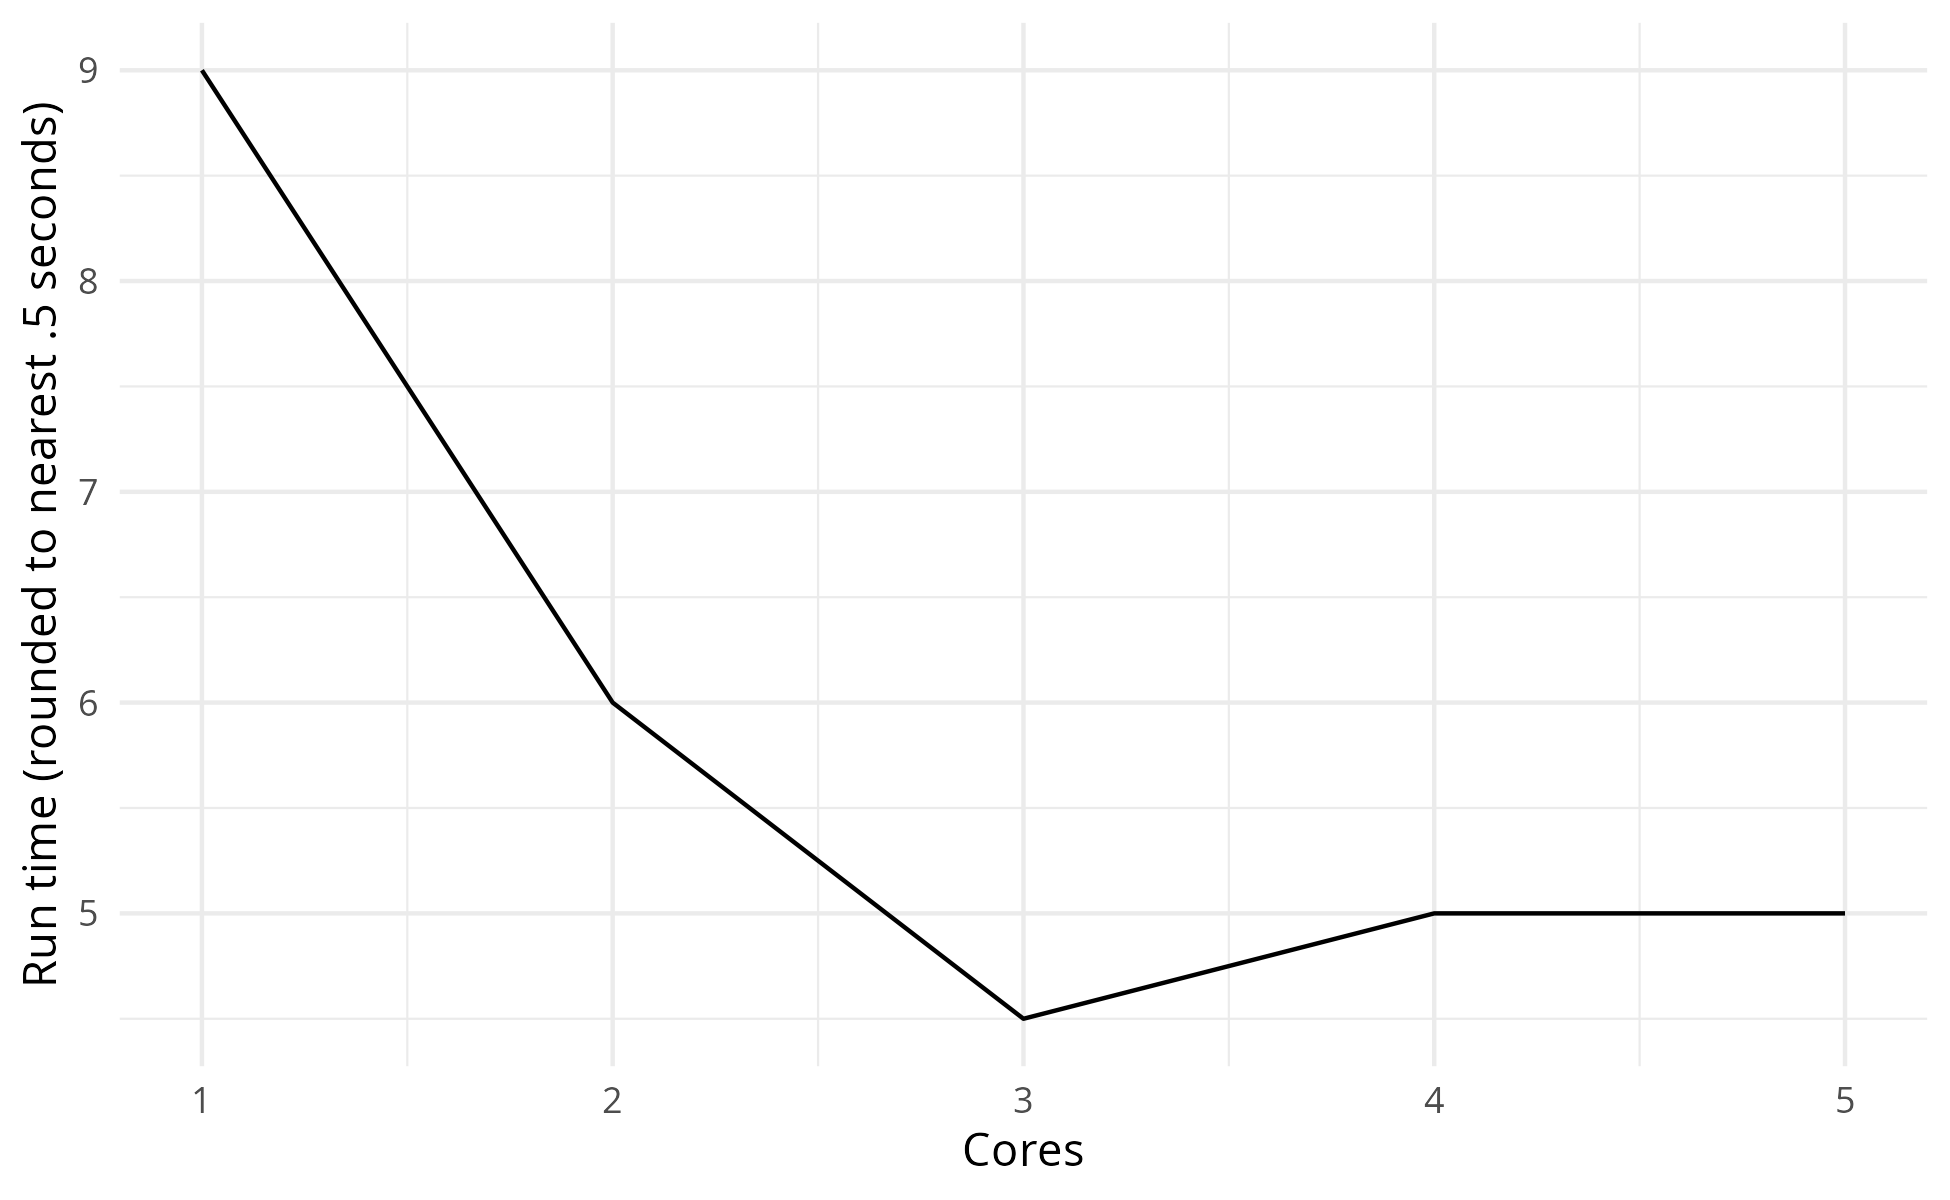
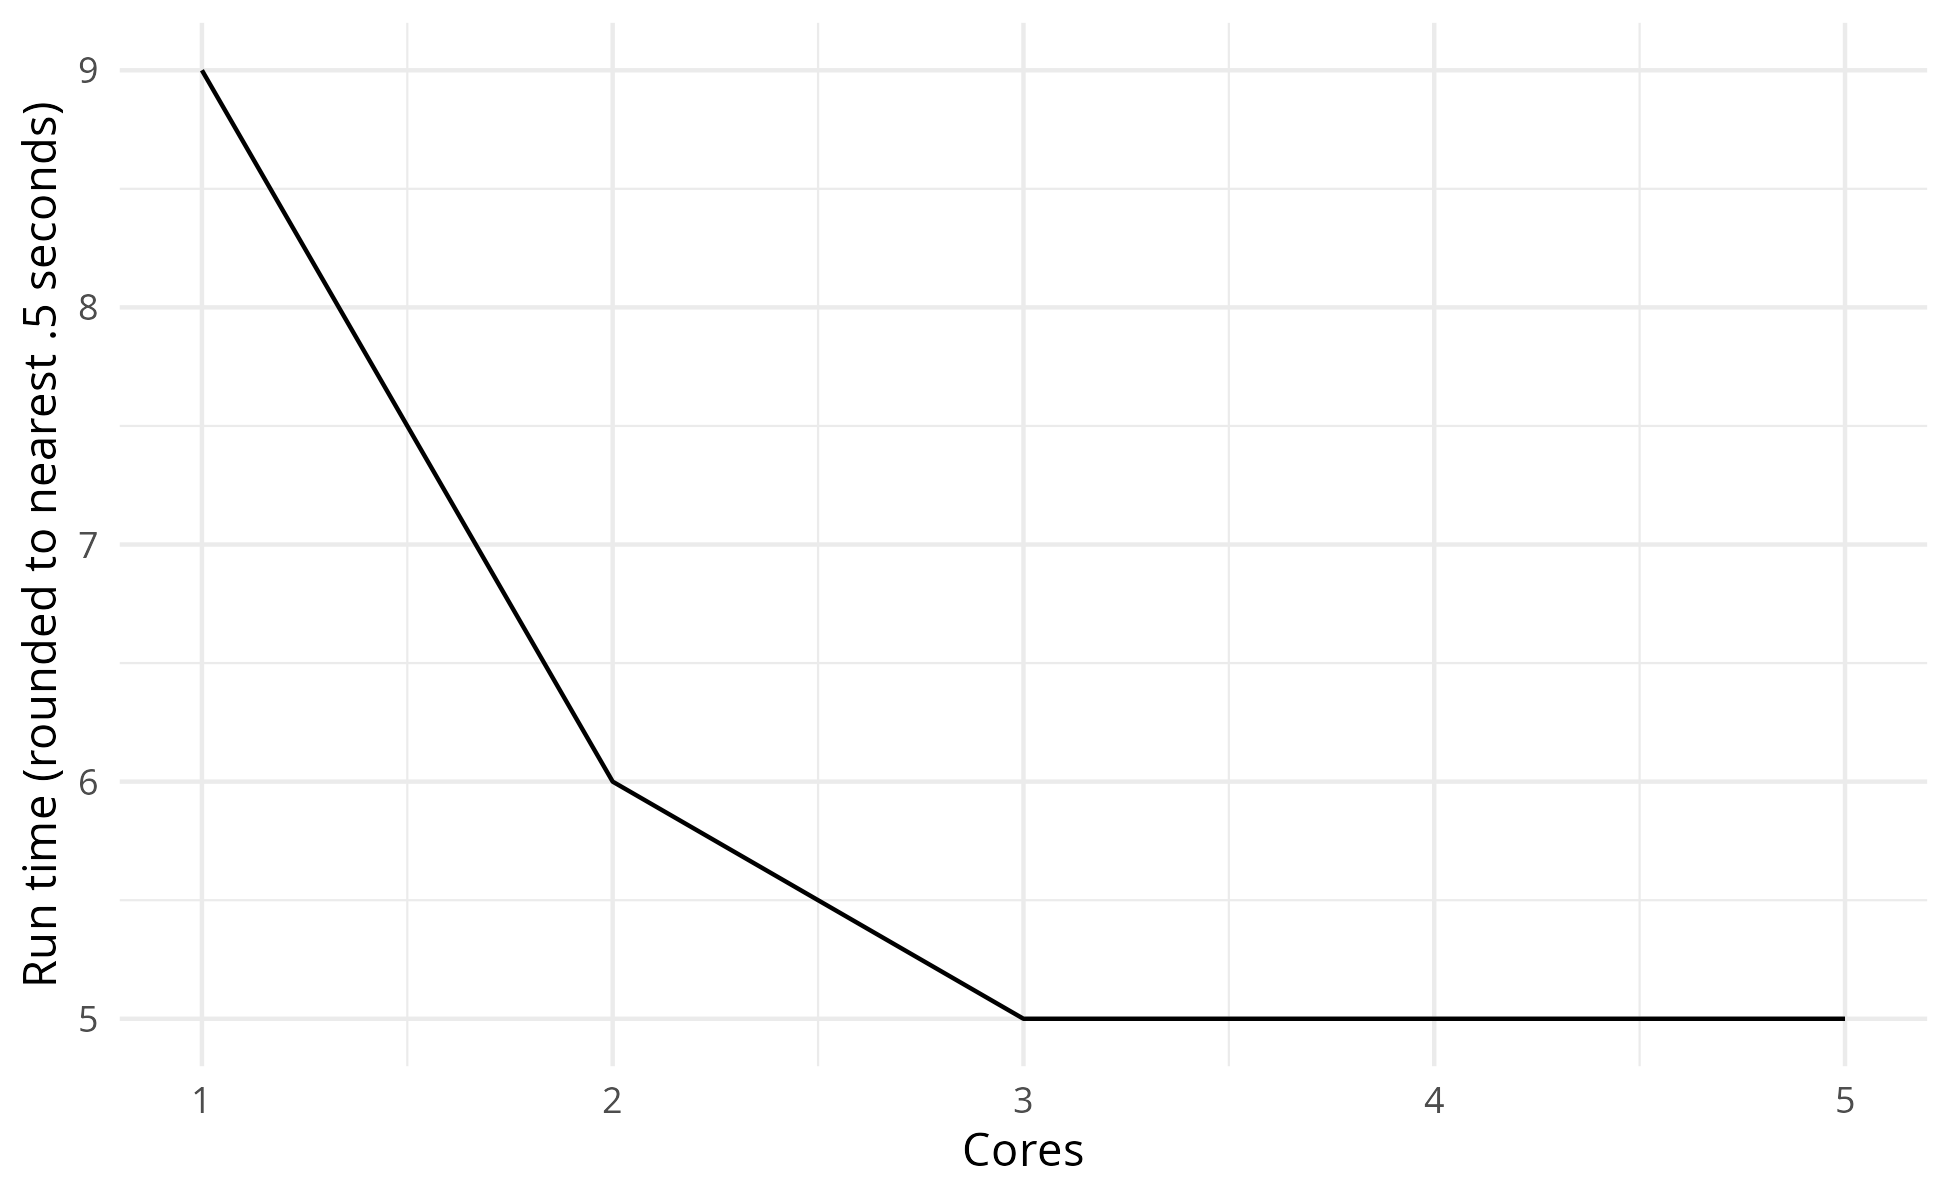
style/chore(rmarkdown): lint and re-run (+ lint model.R)

diff --git a/rmarkdown/input_modelling.md b/rmarkdown/input_modelling.md
@@ -1,7 +1,7 @@
 Input modelling
 ================
 Amy Heather
-2025-11-04
+2025-11-07
 
 - [Input modelling](#input-modelling)
   - [Set-up](#set-up)
@@ -87,7 +87,8 @@ Import data.
 ``` r
 # Import data
 data <- read_csv(
-  file.path("..", "inst", "extdata", "NHS_synthetic.csv"), show_col_types = FALSE
+  file.path("..", "inst", "extdata", "NHS_synthetic.csv"),
+  show_col_types = FALSE
 )
 
 # Preview data
@@ -172,10 +173,10 @@ model, which are often modelled using exponential distributions.
 
 Then, we **inspect the data** in two different ways:
 
-| Plot type | What does it show? | Why do we create this plot? |
-|----|----|----|
+| Plot type       | What does it show?                                                  | Why do we create this plot?                                                                                                                                                                                                                                                                        |
+|-----------------|---------------------------------------------------------------------|----------------------------------------------------------------------------------------------------------------------------------------------------------------------------------------------------------------------------------------------------------------------------------------------------|
 | **Time series** | Trends, seasonality, and outliers (e.g., spikes or dips over time). | To check for **stationarity** (i.e. no trends or sudden changes). Stationary is an assumption of many distributions, and if trends or anomalies do exist, we may need to exclude certain periods or model them separately. The time series can also be useful for spotting outliers and data gaps. |
-| **Histogram** | The shape of the data’s distribution. | Helps **identify which distributions might fit** the data. |
+| **Histogram**   | The shape of the data’s distribution.                               | Helps **identify which distributions might fit** the data.                                                                                                                                                                                                                                         |
 
 We repeat this for arrivals and service time, so have created a function
 to avoid duplicate code between each.

diff --git a/rmarkdown/choosing_cores.md b/rmarkdown/choosing_cores.md
@@ -1,7 +1,7 @@
 Choosing cores
 ================
 Amy Heather
-2025-11-04
+2025-11-07
 
 - [Set up](#set-up)
 - [Run time with varying number of CPU
@@ -37,8 +37,8 @@ devtools::install(upgrade = "never")
     ## Installing package into '/home/amy/.cache/R/renv/library/rdesrap_mms-0ef20566/linux-ubuntu-noble/R-4.4/x86_64-pc-linux-gnu'
     ## (as 'lib' is unspecified)
 
-    ## ── R CMD build ──────────────────────────────────────────────────────────────────────────────────────────────────────────────────────
-    ##   ✔  checking for file ‘/home/amy/Documents/stars/rdesrap_mms/DESCRIPTION’
+    ## ── R CMD build ────────────────────────────────────────────────────────────────────────────────────────────────────────────────────────────────────────────────────────────────────────────────────────
+    ##      checking for file ‘/home/amy/Documents/stars/rdesrap_mms/DESCRIPTION’ ...  ✔  checking for file ‘/home/amy/Documents/stars/rdesrap_mms/DESCRIPTION’
     ##   ─  preparing ‘simulation’:
     ##    checking DESCRIPTION meta-information ...  ✔  checking DESCRIPTION meta-information
     ##   ─  checking for LF line-endings in source and make files and shell scripts
@@ -47,7 +47,7 @@ devtools::install(upgrade = "never")
     ##   ─  building ‘simulation_0.4.0.tar.gz’
     ##      
     ## Running /opt/R/4.4.1/lib/R/bin/R CMD INSTALL \
-    ##   /tmp/Rtmp1dQ0Zp/simulation_0.4.0.tar.gz --install-tests 
+    ##   /tmp/RtmpEVIQmd/simulation_0.4.0.tar.gz --install-tests 
     ## * installing to library ‘/home/amy/.cache/R/renv/library/rdesrap_mms-0ef20566/linux-ubuntu-noble/R-4.4/x86_64-pc-linux-gnu’
     ## * installing *source* package ‘simulation’ ...
     ## ** using staged installation

diff --git a/rmarkdown/analysis.md b/rmarkdown/analysis.md
@@ -1,7 +1,7 @@
 Analysis
 ================
 Amy Heather
-2025-11-04
+2025-11-07
 
 - [Set up](#set-up)
 - [Default run](#default-run)
@@ -517,7 +517,7 @@ print(table_latex)
 ```
 
     ## % latex table generated in R 4.4.1 by xtable 1.8-4 package
-    ## % Tue Nov  4 14:52:38 2025
+    ## % Fri Nov  7 15:50:44 2025
     ## \begin{table}[ht]
     ## \centering
     ## \begin{tabular}{rrllll}
@@ -674,7 +674,7 @@ print(sensitivity_table_latex)
 ```
 
     ## % latex table generated in R 4.4.1 by xtable 1.8-4 package
-    ## % Tue Nov  4 14:53:41 2025
+    ## % Fri Nov  7 15:51:49 2025
     ## \begin{table}[ht]
     ## \centering
     ## \begin{tabular}{rrl}
@@ -843,4 +843,4 @@ seconds <- as.integer(runtime %% 60L)
 cat(sprintf("Notebook run time: %dm %ds", minutes, seconds))
 ```
 
-    ## Notebook run time: 4m 22s
+    ## Notebook run time: 4m 28s

diff --git a/rmarkdown/choosing_warmup.md b/rmarkdown/choosing_warmup.md
@@ -1,7 +1,7 @@
 Choosing warm-up length
 ================
 Amy Heather
-2025-11-04
+2025-11-07
 
 - [Set-up](#set-up)
 - [Determining appropriate warm-up
@@ -147,11 +147,11 @@ time_series_inspection(
 )
 ```
 
-    ## Warning: Removed 20 rows containing missing values or values outside the scale range
-    ## (`geom_line()`).
+    ## Warning: Removed 20 rows containing missing values or values outside the scale
+    ## range (`geom_line()`).
 
-    ## Warning: Removed 26 rows containing missing values or values outside the scale range
-    ## (`geom_line()`).
+    ## Warning: Removed 26 rows containing missing values or values outside the scale
+    ## range (`geom_line()`).
 
 ``` r
 include_graphics(path)

diff --git a/rmarkdown/logs.md b/rmarkdown/logs.md
@@ -1,7 +1,7 @@
 Logs
 ================
 Amy Heather
-2025-11-04
+2025-11-07
 
 - [Set up](#set-up)
 - [Simulation run with logs printed to the
@@ -286,7 +286,7 @@ verbose <- TRUE
 
 # Create simmer environment
 env <- simmer("simulation", verbose = FALSE,
-              log_level = if(verbose) 1L else 0L)
+              log_level = if (verbose) 1L else 0L)
 
 # Define the patient trajectory
 patient <- trajectory("appointment") |>

diff --git a/rmarkdown/choosing_replications.md b/rmarkdown/choosing_replications.md
@@ -1,7 +1,7 @@
 Choosing replications
 ================
 Amy Heather
-2025-11-04
+2025-11-07
 
 - [Set up](#set-up)
 - [Choosing the number of
@@ -1352,4 +1352,4 @@ seconds <- as.integer(runtime %% 60L)
 cat(sprintf("Notebook run time: %dm %ds", minutes, seconds))
 ```
 
-    ## Notebook run time: 1m 58s
+    ## Notebook run time: 1m 56s

diff --git a/rmarkdown/using_set_attributes.md b/rmarkdown/using_set_attributes.md
@@ -1,7 +1,7 @@
 Using `set_attributes()`
 ================
 Amy Heather
-2025-11-04
+2025-11-07
 
 - [Original model](#original-model)
 - [Model with record of allocation to a nurse

diff --git a/rmarkdown/generate_exp_results.md b/rmarkdown/generate_exp_results.md
@@ -1,7 +1,7 @@
 Generate expected results
 ================
 Amy Heather
-2025-11-04
+2025-11-07
 
 - [Set-up](#set-up)
 - [Base case](#base-case)
